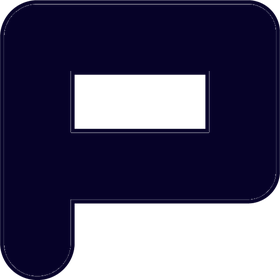
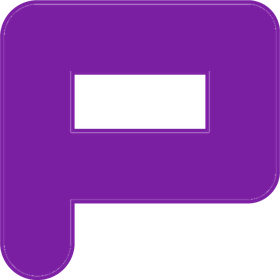
Narrowcasting: pijler-iconen in alternatieve kleur, namen in donkerblauw, volledige JUMP-wordmark (groene letters, witte pijl)

diff --git a/story-generator/narrowcasting.js b/story-generator/narrowcasting.js
@@ -276,13 +276,13 @@
   }
   function meetingWeather() { return meeting.mode === 'off' ? '' : '<div class="wmini rz" id="wmini" style="animation-delay:400ms">' + miniWeather() + '</div>'; }
 
-  // the four pillars as round icons along the bottom. Once every 30 seconds one of them stretches (left anchored, like the circles
+  // the four pillars as round icons along the bottom (the letter in the alternative colour of the pillar, the name in the dark blue of the background; the JUMP wordmark has green letters and a white arrow). Once every 30 seconds one of them stretches (left anchored, like the circles
   // of the ByTomorrow socials) into a pill with its full name and goes back to a circle; the colours never mix
   // (only on the slogan and the meeting mode)
   var PB = [['Marketing', '#FFCC00', '#C25100', 'marketing.png'], ['Content', '#00FFE6', '#008B8B', 'content.png'], ['Productie', '#FC06E5', '#7B1FA2', 'productie.png'], ['JUMP', '#49FF9F', '#2F7E4D', 'jump.svg']], pbTimers = [], pbIndex = 0, PB_D = 68;
   function pillarBar() {
     var h = '<div class="pb rz" id="pb" style="animation-delay:600ms">', i;
-    for (i = 0; i < PB.length; i++) h += '<div class="pbc" style="background:' + PB[i][1] + '"><span class="pbw"><img src="/assets/pillars/' + PB[i][3] + '" alt=""></span><span class="pbt" style="color:' + PB[i][2] + '">' + PB[i][0] + '</span></div>';
+    for (i = 0; i < PB.length; i++) h += '<div class="pbc" style="background:' + PB[i][1] + '"><span class="pbw"><img src="/assets/pillars/' + PB[i][3] + '" alt=""></span><span class="pbt"' + (i === 3 ? ' style="left:24px"' : '') + '>' + (i === 3 ? '<img src="/assets/pillars/jump-wordmark.svg" alt="JUMP">' : PB[i][0]) + '</span></div>';
     return h + '</div>';
   }
   function stopPillars() { while (pbTimers.length) clearTimeout(pbTimers.pop()); }
@@ -292,11 +292,12 @@
     var segs = el.children;
     function at(ms, fn) { pbTimers.push(setTimeout(fn, ms)); }
     function cycle() {
-      var n = pbIndex, seg = segs[n], txt = seg.children[1]; pbIndex = (pbIndex + 1) % PB.length;
-      at(4000, function () { seg.style.width = (PB_D + 8 + txt.offsetWidth + 30) + 'px'; });      // the circle stretches into a pill
+      var n = pbIndex, seg = segs[n], ico = seg.children[0], txt = seg.children[1]; pbIndex = (pbIndex + 1) % PB.length;
+      // JUMP shows its full wordmark (with its own arrow) instead of the name, so the round arrow gives way to it
+      at(4000, function () { seg.style.width = ((n === 3 ? 24 : PB_D + 8) + txt.offsetWidth + 30) + 'px'; if (n === 3) ico.style.opacity = 0; });      // the circle stretches into a pill
       at(4900, function () { txt.style.opacity = 1; });                                          // the name fades in just before the pill has landed
       at(4000 + 1500 + 4500, function () { txt.style.opacity = 0; });                            // stays a moment, the name fades away
-      at(4000 + 1500 + 4500 + 700, function () { seg.style.width = PB_D + 'px'; });             // and the pill becomes a circle again
+      at(4000 + 1500 + 4500 + 700, function () { seg.style.width = PB_D + 'px'; ico.style.opacity = 1; });             // and the pill becomes a circle again
       at(30000, cycle);
     }
     cycle();

diff --git a/story-generator/narrowcasting.css b/story-generator/narrowcasting.css
@@ -188,8 +188,10 @@ body { font-family: "Open Sans", Arial, sans-serif; color: #fff; }
 .pb { position: absolute; left: 80px; top: 976px; width: 1760px; height: 68px; white-space: nowrap; font-size: 0; }
 .pbc { position: relative; display: inline-block; vertical-align: top; width: 68px; height: 68px; margin-right: 14px; border-radius: 34px; overflow: hidden; -webkit-transition: width 1.5s cubic-bezier(.45,0,.2,1); transition: width 1.5s cubic-bezier(.45,0,.2,1); }
 .pbw { position: absolute; left: 0; top: 0; width: 68px; height: 68px; line-height: 68px; text-align: center; }
+.pbw { -webkit-transition: opacity .6s ease; transition: opacity .6s ease; }
 .pbw img { display: inline-block; height: 36px; width: auto; vertical-align: middle; }
-.pbt { position: absolute; left: 76px; top: 0; height: 68px; font-family: "Niveau Grotesk", Arial, sans-serif; font-weight: 700; font-size: 30px; line-height: 68px; white-space: nowrap; opacity: 0; -webkit-transition: opacity .9s ease; transition: opacity .9s ease; }
+.pbt img { display: block; height: 38px; width: auto; margin-top: 15px; }
+.pbt { position: absolute; left: 76px; top: 0; height: 68px; font-family: "Niveau Grotesk", Arial, sans-serif; font-weight: 700; font-size: 30px; line-height: 68px; color: #060228; white-space: nowrap; opacity: 0; -webkit-transition: opacity .9s ease; transition: opacity .9s ease; }
 
 /* meeting mode: a little less padding around everything */
 .stage.mm .clockbox { right: 56px; top: 30px; }
